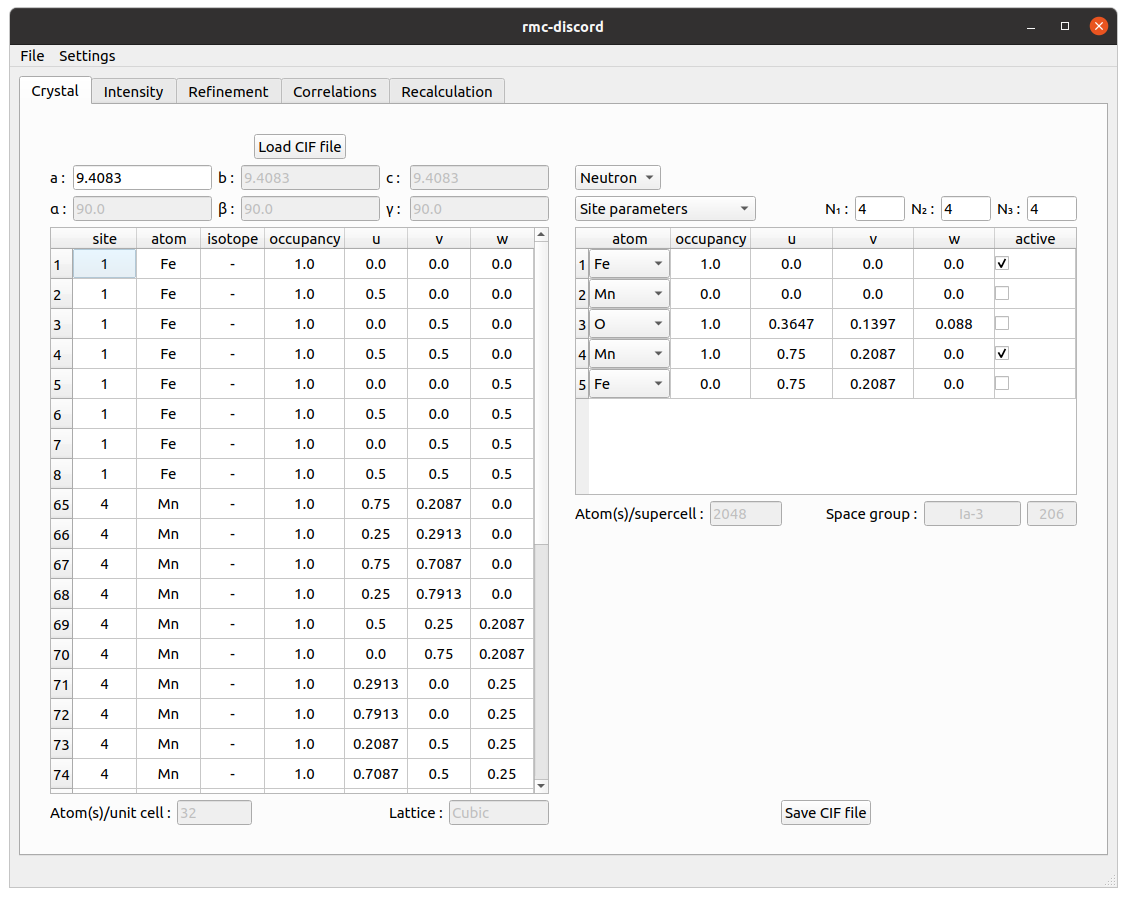
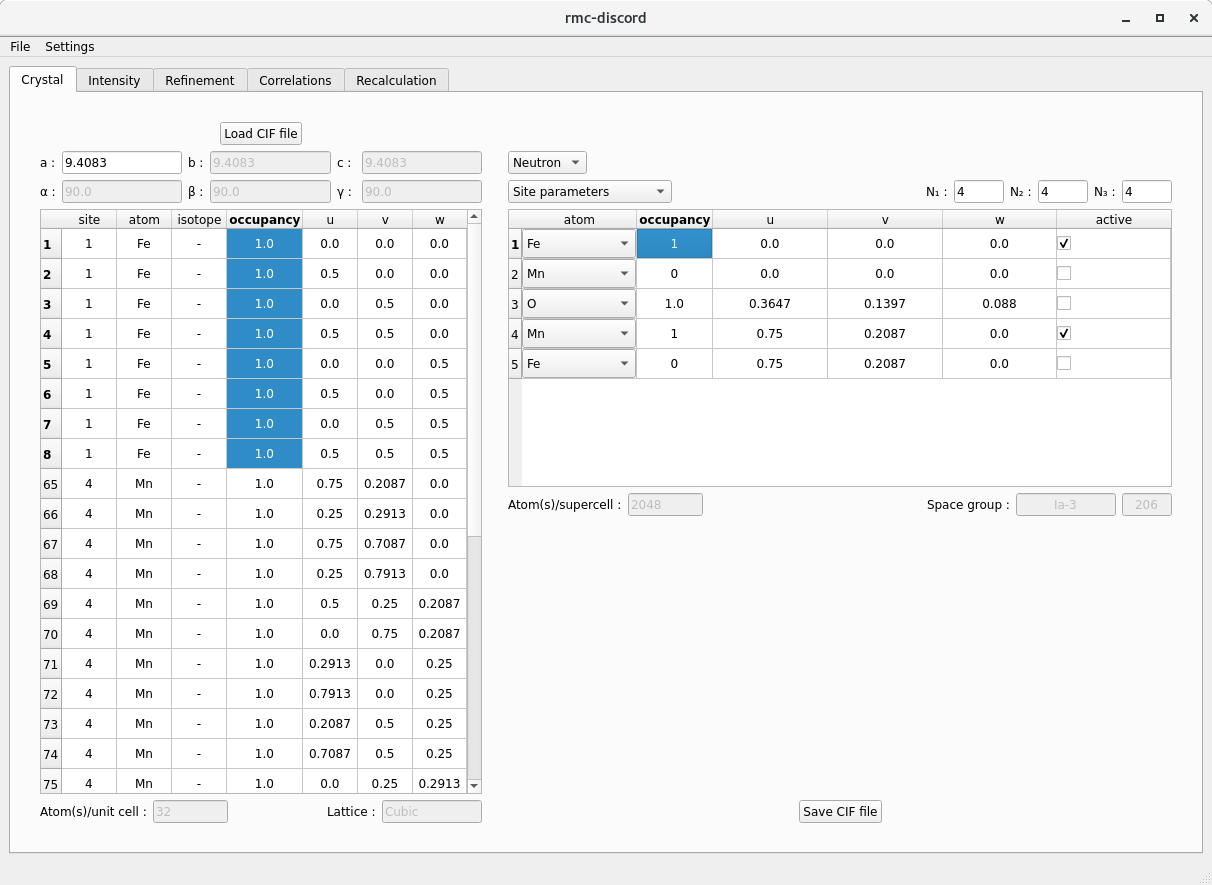
New tutorial

Changed region(s): [[0.0, 0.0, 0.9938, 0.9763]]

diff --git a/docs/tutorials/mno/index.md b/docs/tutorials/mno/index.md
@@ -1,9 +1,13 @@
-# **Bixbyite -- magnetic**
+# **MnO -- magnetic**
+
+This example is courtesy of 
+[Joseph A. M. Paddison, Matthias J. Gutmann, J. Ross Stewart, Matthew G. Tucker, Martin T. Dove, David A. Keen, and Andrew L. Goodwin
+Phys. Rev. B 97, 014429](https://journals.aps.org/prb/abstract/10.1103/PhysRevB.97.014429) 
 
 ### Getting started on `analysis.sns.gov`
 1. Open a terminal (Ctrl+Alt+T)
 2. Create a directory on your Desktop `mkdir ~/Desktop/Workshop/`
-3. Copy over CIF and data files `cp /SNS/software/scd/examples/bixbyite.* ~/Desktop/Workshop/`
+3. Copy over CIF and data files `cp /SNS/software/scd/examples/MnO.* ~/Desktop/Workshop/`
 4. Launch rmc-discord `/SNS/software/scd/rmc-discord.sh`
 
 ## **RMC refinement**
@@ -20,7 +24,7 @@ To define a supercell, it is first necessary to construct a unit cell from the a
 
 1. Begin by loading a crystallographic information file (CIF) or magnetic CIF file
   - The button is located on the upper left corner of window *Load CIF*.
-  - Choose `bixbyite.cif`.
+  - Choose `MnO.cif`.
   - The parameters are extracted from the CIF file and populated into two tables.
     - The left hand table displays all atoms in the unit supercell.
     - The right hand table gives the basic atom site information.
@@ -37,13 +41,11 @@ To define a supercell, it is first necessary to construct a unit cell from the a
           If available, *Magnetic parameters* allows the magnetic ion to be chosen along with the magnetic moment component along the crystal axes.
           If a valid  `.mcif` is used, the magnetic symmetry will be accounted for. The $$g$$-factor can also be specified.
      - Select *Magnetic parameters*, choose $$\mathrm{Fe3+}$$ and $$\mathrm{Mn3+}$$ ions and deactivate site 3 since oxygen is nonmagnetic.
-     - Update the occupancy of the Fe-rich site at $$(0,0,0)$$ to 1.0 and deactivate the Mn-deficient part.
-     - Update the occupancy of the Mn site at $$(0,0.75,z)$$ to 1.0 and deactivate Fe part.
-     - Create a supercell with size $$N_1=4$$, $$N_2=4$$, and $$N_3=4$$ by entering the number of cells along each crystal axes. 
+     - Create a supercell with size $$N_1=8$$, $$N_2=8$$, and $$N_3=8$$ by entering the number of cells along each crystal axes. 
 3. Optionally save the CIF file of the supercell and visualize it in external program [VESTA](https://jp-minerals.org/vesta/en/)
 
 <p align="center">
-<img src="bixbyite-gui-crystal.png" alt="Bixbyite GUI crystal tab" width="640">
+<img src="mno-gui-crystal.png" alt="Bixbyite GUI crystal tab" width="640">
 <br />
 Crystal tab
 </p>
@@ -60,9 +62,9 @@ Crystal tab
 
 Once a supercell is defined, the experimental data can be loaded and preprocessed for refinement
 
-1. Load a NeXus (NXS) with the diffuse scattering data
-  - The button is located on the upper left corner of window *Load NeXus file*.
-  -  Choose `bixbyite.nxs`.
+1. Load a HDF5 (H5) with the diffuse scattering data
+  - The button is located on the upper left corner of window *Load NeXus file*. 
+  - Choose `MnO.h5`.
   - The loaded data are displayed as three separate reciprocal space slices: $$(0kl)$$, $$(h0l)$$, and $$(hk0)$$.
     - The table displays the binning information along each reciprocal space dimension.
     - The tabs give basic options for rebinning, cropping, and punching out Bragg peaks.
@@ -77,17 +79,11 @@ Once a supercell is defined, the experimental data can be loaded and preprocesse
      - The *Centered at integer* check boxes give only the options where the binning is centered over each integer $$h$$, $$k$$, and $$l$$.
   - The *Crop* table allows the $$h$$-, $$k$$-, and $$l$$-range to be specified.
      - The *Reset* button resets the binning and cropping to the original values of the loaded data.
-  - Rebin the data to $$0.2\times0.2\times0.2$$ and crop to -4 to 4 along each dimension.
-3. Remove the Bragg peaks
-  - Select the *Centering* of the crystal (*I* for body centering).
-  - Optionally, choose between *Box* and *Ellipsoid*.
-  - Choose the size for each radius in number of pixels, for exampe 2 pixels.
-  - Optionally, decrease the *Outlier* parameter to remove more data.
-  - The *Punch* can be done in multiple passes.
-  - The removal can be *Reset*.
+  - Rebin the data to $$0.12\times0.12\times0.12$$ and crop to -3 to 3 along each dimension.
+3. The Bragg peaks are already removed
 
   <p align="center">
-  <img src="bixbyite-gui-intensity.png" alt="Bixbyite GUI intensity tab" width="640">
+  <img src="mno-gui-intensity.png" alt="MnO GUI intensity tab" width="640">
   <br />
   Crystal tab
   </p>
@@ -95,7 +91,6 @@ Once a supercell is defined, the experimental data can be loaded and preprocesse
 **Hints**
 - View the data in logarithmic scale to better observe the diffuse scattering.
 - Select a region of interest that covers at least the primitive features of the observed diffuse scattering.
-- Check for complete Bragg peak removal by switching between linear and logarithmic scaling.
 
 ### **Refinement tab**
 
@@ -121,7 +116,7 @@ Setup and run a refinement.
   - View different refinement static plots.
 
 <p align="center">
-<img src="bixbyite-gui-refinement.png" alt="Bixbyite GUI refinement tab" width="640">
+<img src="mno-gui-refinement.png" alt="MnO GUI refinement tab" width="640">
 <br />
 Crystal tab
 </p>
@@ -159,7 +154,7 @@ After completing a refinement, the pair correlations can be calculated.
  - Choose a distance $$d$$ from the origin where $$(hkl)\cdot[uvw]=d$$.
 
 <p align="center">
-<img src="bixbyite-gui-correlations.png" alt="Bixbyite GUI correlations tab" width="640">
+<img src="mno-gui-correlations.png" alt="MnO GUI correlations tab" width="640">
 <br />
 Crystal tab
 </p>
@@ -173,7 +168,7 @@ Crystal tab
 ### **Recalculation tab**
 
 <p align="center">
-<img src="bixbyite-gui-recalculation.png" alt="Bixbyite GUI recalculation tab" width="640">
+<img src="mno-gui-recalculation.png" alt="MnO GUI recalculation tab" width="640">
 <br />
 Crystal tab
 </p>

diff --git a/docs/tutorials/index.md b/docs/tutorials/index.md
@@ -2,6 +2,13 @@
 
 In the examples below, the diffuse scattering patterns without Bragg peaks are generated using a forward Monte Carlo method.
 
+# **Workshop example**
+
+The following example use collected data.
+
+* [MnO -- magnetic](mno/index)
+* [Bixbyite -- magnetic](bixbyite/index)
+
 ## **Hexagonal examples**
 The following introductory examples illustrate refinement each of the three disorder types in two-dimensions.
 * [Kagome -- magnetic](kagome/index)
@@ -15,8 +22,3 @@ Refinement of correlated disorder on the pyrochlore lattice is demonstrated in t
 * [Charge ice](pyrochlore/occupational/index)
 * [Displacement ice](pyrochlore/displacive/index)
 
-# **Workshop example**
-
-The following example use collected data.
-
-* [Bixbyite -- magnetic](bixbyite/index)
